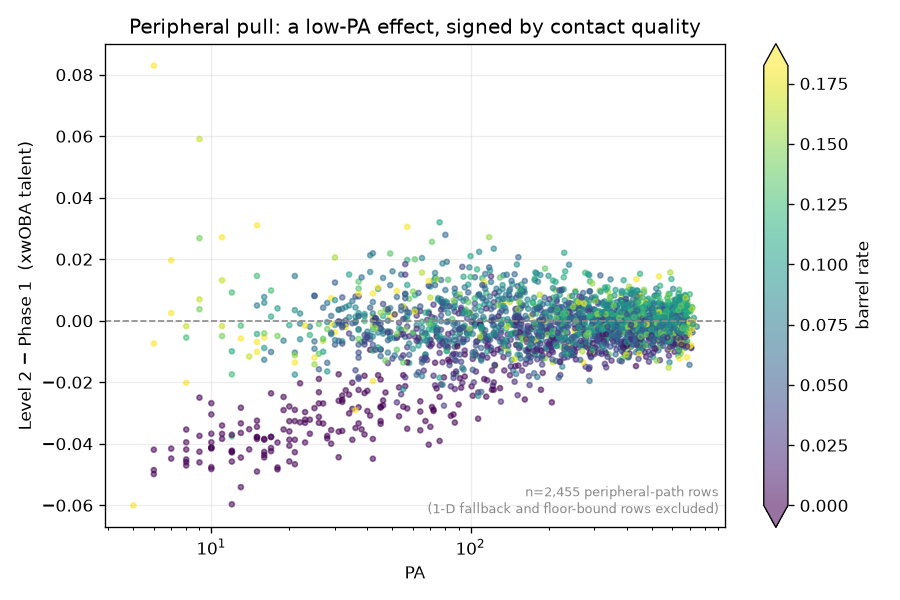
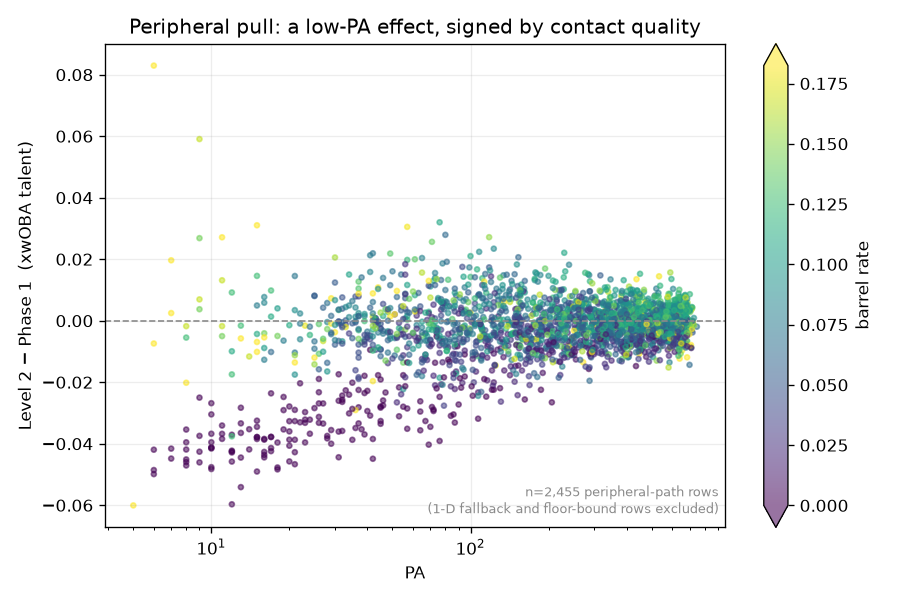
docs: Level-2 talent model results + Phase-2 roadmap supersession
results/talent2/NOTES.md, a RESULTS.md section, and a supersession block on the
old Phase-2 roadmap (both its candidate designs were killed — the contact-prior
variant empirically as a structural no-op, the event-level batter intercepts at
design review).

The write-up leads with the win and then argues against it: G3/G4 pass and the
gain sits exactly where the design predicted by PA band (+0.0718 at 30-60 PA
decaying to -0.0000 at 250+), but the paired-bootstrap CI straddles zero
([-0.0117, +0.0176]) and the held-out confirm season reverses sign (-0.0034).
Documented as an improvement in expectation, not a demonstrated one. Also notes
that G3's two criteria are not independent evidence: for a fixed target set the
calibrated RMSE is exactly sd(target)*sqrt(1-r^2), so beating on r implies
beating on RMSE.

Includes a real miss (Cesar Salazar 2024) alongside the three successes so the
mechanism is not oversold, and pins base's row order so the parquet and scatter
are byte-idempotent across runs.

Claude-Session: https://claude.ai/code/session_016fRtypddqZDobpZtbNjPLy

Changed region(s): [[0.4978, 0.48, 0.7778, 0.6], [0.4044, 0.51, 0.4667, 0.54], [0.56, 0.48, 0.5911, 0.51]]

diff --git a/scripts/run_talent2.py b/scripts/run_talent2.py
@@ -313,7 +313,8 @@ def stage_full(cfg, meas: pl.DataFrame, S: np.ndarray, p1: pl.DataFrame,
         .join(act.select("batter", "season", "actual_woba"),
               on=["batter", "season"], how="inner")
         .with_columns(floor_binds=pl.col("se2_p1") < FLOOR_SD_PER_PA ** 2 / pl.col("n"))
-    )
+        .sort("batter", "season")   # pin join order: see make_pairs — without this the
+    )                               # written parquet and the scatter differ run to run
     assert base.height == P1_N_ROWS, f"base height {base.height} != {P1_N_ROWS}"
 
     sel_seasons = cfg.train_seasons[:-1]          # 2022, 2023 -> model-choice split

diff --git a/results/talent2/NOTES.md b/results/talent2/NOTES.md
@@ -1,0 +1,225 @@
+# Level-2 true talent — shrink toward what the peripherals imply, not the league mean
+
+Date: 2026-07-19 · No BART re-fit. Reproduce: `.venv/bin/python scripts/run_talent2.py --stage full`
+→ `results/talent2/{figures/, talent2_table.parquet, l2a_table.parquet, talent2_metrics.json}`.
+
+Design: `docs/superpowers/specs/2026-07-19-xwobart-phase2-design-response.md` ·
+Plan: `docs/superpowers/plans/2026-07-19-xwobart-phase2-level2-talent.md`. Stage 1 of Phase 2.
+
+**Goal.** Phase 1 (`results/talent/NOTES.md`) shrinks every hitter toward the **season league
+mean**, which is the right answer only when you know nothing else about him. But you do know
+something else: how hard he hits the ball. Exit velocity and barrel rate stabilize far faster
+than xwOBA, and at 30–100 PA they out-predict next season better than raw xwOBA does
+(barrel r 0.244, EV r 0.227, raw xwOBA r 0.179). Level 2 puts them in the **prior**, so a
+rookie barreling the ball regresses toward a barrel-hitter's xwOBA instead of toward .310.
+This closes Phase-1 limitation 1.
+
+## Construction
+
+The three stats are **jointly noisy measurements of correlated latent talents** — not a
+regression of one on the others (see the shared-noise section below for why that distinction
+is the whole ballgame):
+
+- measurement: `z_i = (xwOBA, avg EV, barrel rate)_i ~ N((θ_i, ξ_i), S_i)`
+- talent: `(θ_i, ξ_i) ~ N(μ_season, Σ_talent)`
+- posterior: `θ̂ = μ + Σ(Σ+S_i)⁻¹(z−μ)`, `V = Σ − Σ(Σ+S_i)⁻¹Σ` — closed form, no MCMC.
+
+1. **Per-PA measurement frame** (`build_pa_measurements`). xwOBA value exactly as Phase 1.
+   EV and barrel (`launch_speed_angle == 6`) are recorded **only on tracked BBE**; the ~0.3%
+   of batted balls with no tracking keep their xwOBA value but leave the peripheral
+   denominators alone.
+2. **Per-player measurement covariance `S_i` by bootstrap** (`bootstrap_S`). Resample the
+   player's own PAs with replacement, recompute all three stats per replicate, take the
+   covariance. This is the load-bearing step: it captures the **cross-covariances** exactly
+   (all three stats come from the same balls) and handles the mixed denominators — xwOBA is
+   per-PA, EV and barrel are per-tracked-BBE — with no analytic approximation.
+   `S_i[0,0]` is floored at `(0.25)²/n` (see "the 136 rows" below).
+3. **Hyperparameters by marginal MLE** (`mvn_mle`) on the stable population (PA ≥ 100,
+   n = 1,830): per-season `μ` and one shared `Σ_talent`, with `Σ` parameterized by its
+   Cholesky factor so it is PSD by construction. Inputs standardized per dimension.
+4. **Closed-form posterior for every player-season** (2,636). Rows with fewer than 5 tracked
+   BBE, missing peripherals, or a failed bootstrap fall back to the 1-D xwOBA-only model —
+   i.e. exactly Phase 1's machinery. **93 rows (3.5%) take the fallback; 2,543 use all three
+   dimensions.** Median reliability rises 0.65 (Phase 1) → 0.70.
+
+### Fitted talent correlations (`Σ_talent`, unstandardized)
+
+|  | xwOBA | avg EV | barrel rate |
+|---|---|---|---|
+| **xwOBA** | 1.000 | **+0.776** | **+0.712** |
+| **avg EV** | +0.776 | 1.000 | +0.824 |
+| **barrel rate** | +0.712 | +0.824 | 1.000 |
+
+Talent SDs: xwOBA **0.0312**, EV **2.42 mph**, barrel rate **0.0367**. The xwOBA figure is
+the sanity check that matters — Phase 1's per-season τ ranges 0.0307–0.0323, so the single
+shared Σ lands mid-range and the "one Σ across seasons" simplification costs nothing.
+Per-season μ (xwOBA dim) 0.3034 / 0.3126 / 0.3094 / 0.3166 for 2022–25, within 0.0016 of
+Phase 1's per-season μ everywhere.
+
+## What it does to actual hitters
+
+Low-PA seasons where the contact quality disagrees with the results (`next` = the following
+season's actual wOBA, which neither model saw):
+
+| batter-season | PA | EV | barrel | raw | Phase 1 | **Level 2** | next |
+|---|---|---|---|---|---|---|---|
+| Sal Stewart 2025 (hot line, elite contact) | 57 | 95.4 | .179 | .409 | .334 | **.364** | .361 |
+| Stone Garrett 2022 (average line, good contact) | 76 | 93.9 | .109 | .307 | .305 | **.337** | .420 |
+| Tyler Heineman 2023 (hot line, no contact) | 42 | 77.4 | .000 | .332 | .320 | **.275** | .292 |
+| César Salazar 2024 (**a miss**) | 31 | 82.9 | .000 | .347 | .318 | **.274** | .352 |
+
+The first three are the mechanism working: Stewart's hot 57 PA is *backed* by 95.4 mph and a
+17.9% barrel rate, so Level 2 declines to shrink him all the way and lands on .364 against a
+.361 next season; Heineman's identical-looking hot line came off 77.4 mph contact with zero
+barrels, and Level 2 calls it luck. Salazar is included because it is a **real miss** — same
+signal, wrong answer, next-season .352. The peripherals are information, not a guarantee, and
+n = 31 is n = 31.
+
+`figures/peripheral_pull.png` shows the whole population: the correction fans out as PA
+shrinks and is cleanly signed by barrel rate (high-barrel pulled up, low-barrel pulled down),
+collapsing to zero above ~300 PA where the xwOBA sample already knows.
+
+## Validation — does it predict next season better?
+
+Season-T estimate vs season-(T+1) **actual** wOBA, target year PA ≥ 100. Pearson r
+(calibrated RMSE in parentheses):
+
+| population | n | **Level 2** | Phase-1 talent | raw | Savant |
+|---|---|---|---|---|---|
+| pooled, PA_T ≥ 100 | 1060 | **0.4908** (0.03446) | 0.4886 (0.03451) | 0.4835 (0.03462) | 0.4908 (0.03446) |
+| pooled, PA_T ≥ 30 | 1173 | **0.4698** (0.03522) | 0.4669 (0.03528) | 0.4454 (0.03572) | 0.4521 (0.03558) |
+
+**Gates: G3 (low-PA win) PASS, G4 (high-PA non-inferiority) PASS.** At PA ≥ 30 Level 2 beats
+Phase 1 on both r and calibrated RMSE, and beats Savant by 0.0177. At PA ≥ 100 it gains
+0.0022 over Phase 1 and now **exactly ties Savant** (0.4908 vs 0.4908) where Phase 1 trailed.
+
+**Where the gain lives** — by PA band, the design's prediction made visible:
+
+| PA band | n | Level 2 | Phase 1 | Δ | raw | Savant |
+|---|---|---|---|---|---|---|
+| [30,60) | 50 | **0.3107** | 0.2389 | **+0.0718** | 0.2088 | 0.2111 |
+| [60,100) | 63 | **0.1247** | 0.0882 | +0.0365 | 0.1102 | 0.1283 |
+| [100,250) | 227 | **0.2935** | 0.2769 | +0.0166 | 0.2783 | 0.2931 |
+| [250,inf) | 833 | 0.5122 | 0.5122 | −0.0000 | 0.5164 | 0.5230 |
+
+A monotone gradient that vanishes exactly where it should. Note this table means something
+here that the equivalent Phase-1 table did **not**: Phase 1's per-band r was affine-invariant
+to shrinkage (within a band `θ̂` is ~affine in raw, so r cannot move — see
+`results/talent/NOTES.md`), which is why its per-band gaps were noise. Level 2 adds
+*independent information* inside the band, so its per-band gains are real signal. They are
+also small-n (50, 63) and correspondingly noisy — read the gradient, not the digits.
+
+### Honest accounting: the gain is real in direction, not established in size
+
+Three things cut against reading +0.0029 as a solid win, and all three are in
+`talent2_metrics.json`:
+
+1. **The paired bootstrap CI straddles zero.** 5,000 resamples of the PA ≥ 30 pairs:
+   Δr mean **+0.0029, CI95 [−0.0117, +0.0176]**, better in **64.1%** of resamples. The point
+   estimate favors Level 2; the sample cannot distinguish it from zero.
+2. **The confirmation season reverses sign (G6).** Model choices were scored on
+   *select* = 22→23 and 23→24; *confirm* = 24→25 was held out. Select: **+0.0063** (n=787).
+   Confirm: **−0.0034** (n=386). The pooled +0.0029 is an average of a win and a loss, and
+   nothing was tuned on confirm to fix that.
+3. **The ablations don't agree with each other.** On select, full 3-D (+0.0063) beats
+   barrel-only (+0.0035) beats EV-only (+0.0020), so the protocol ships full 3-D. On confirm,
+   EV-only is the only positive variant (+0.0050) while full 3-D (−0.0034) and barrel-only
+   (−0.0065) are negative. No variant is consistently ahead.
+
+Note also that Δr and Δ(calibrated RMSE) are **not independent evidence**: for a fixed target
+set the OLS-residual RMSE is exactly `sd(target)·√(1−r²)`, so beating on r implies beating on
+calibrated RMSE, always. G3's two criteria are one criterion. (Verified to machine precision;
+`_fast_scores` in the runner documents the identity.)
+
+The fair summary: the mechanism is doing what it was designed to do, in the regime and with
+the sign the design predicted, and it costs nothing at high PA — but a single season of
+holdout contradicts it and the CI includes zero. It ships as an improvement in expectation,
+not as a demonstrated one.
+
+## The shared-noise tripwire (G5) — the one that mattered
+
+**Why this is design risk #1.** The obvious way to build this — regress xwOBA on EV and barrel
+rate, use the fitted value as the prior mean — is broken, and quietly so. All three stats are
+computed from *the same batted balls*, so their sampling errors are correlated: a hitter who
+happened to square up a few extra balls in 40 PA has an inflated xwOBA **and** an inflated EV
+and barrel rate together. A regression cannot tell that shared noise from shared talent, so β
+inflates, τ deflates, and the model manufactures low-PA gains out of nothing. The joint MVN is
+immune by construction *only because* `S_i` carries the off-diagonals that encode exactly that
+correlation.
+
+**The test.** Refit with the off-diagonals of every `S_i` zeroed — i.e. deliberately commit the
+error — and see whether the low-PA gain gets *bigger*. If it does, the gain was the artifact.
+
+| fit | PA ≥ 30 gain vs Phase 1 |
+|---|---|
+| proper `S_i` (shipped) | **+0.0029** |
+| off-diagonals zeroed | **−0.0101** |
+| artifact gap | **−0.0130** (alarm threshold: > +0.005) |
+
+**Clean, and emphatically so.** Zeroing the off-diagonals does not inflate the gain — it
+destroys it, leaving a model *worse than Phase 1*. That is the strongest single result here:
+the shared-noise modeling is load-bearing, and the +0.0029 is not correlated noise being
+fitted. Had this come back positive, the low-PA win would have been withdrawn.
+
+## The 136 rows where the variance floor binds (Phase-1 limitation 3, closed)
+
+Phase 1 measures a sample's noisiness by how much the hitter's per-PA outcomes vary. A hitter
+with **2 PA who made 2 outs** has zero variation, so Phase 1 computes se² = 0, reliability
+1.0, and reports his true talent as **exactly .000** — with total confidence, off two outs.
+Seven rows hit se² exactly zero; 136 fall below the floor. Trevor Rogers (a pitcher, 2 PA,
+2025) is the archetype: Phase 1 .000 → Level 2 .309.
+
+Level 2 floors the xwOBA measurement variance at `(0.25)²/n`, so no tiny sample can claim
+certainty. Median PA among the 136 is 12; median move 0.0102; max move 0.3085.
+
+**This changes the L2a regression gate, deliberately.** G1 asks whether the rebuilt machinery
+reproduces Phase 1. It does — on the 2,500 rows where both models *should* agree, corr =
+**0.99950** (median |diff| 0.00025, max 0.0055), and the frozen validation anchors reproduce
+to 0.4885 vs 0.4886 (PA ≥ 100) and 0.4663 vs 0.4669 (PA ≥ 30). The 136 floor-bound rows are
+excluded from that correlation and reported separately (`l2a.floor_fix` in the metrics,
+including the all-rows corr of 0.7620 that the outliers produce) rather than folded into a
+pass. Bootstrap SEs also match Phase 1's analytic SEs: corr **0.9965**, median ratio **1.002**
+(G2).
+
+## Leakage sensitivity — and a convention we are deviating on
+
+Hyperparameters are fit on **all four seasons**, matching Phase 1's convention. The spec's
+letter would fit them on the training seasons only. Refitting on 2022–24 (n_fit 1,371,
+excluding 2025 measurement rows) moves the PA ≥ 30 result by **−0.0005** (0.4694 vs 0.4698) —
+negligible, so the convention is kept for Phase-1 comparability. Note the exposure is
+structurally small anyway: 2025 talent estimates are never a *predictor* in these races, only
+a target, so 2025 can only leak through the shared Σ and the 2025 μ.
+
+## Interval widths
+
+Median 90% interval width, Phase 1 → Level 2 (`figures/interval_width_vs_pa.png`):
+
+| PA band | [30,60) | [60,100) | [100,250) | [250,450) | [450,inf) |
+|---|---|---|---|---|---|
+| Phase 1 | 0.0869 | 0.0787 | 0.0667 | 0.0536 | 0.0466 |
+| Level 2 | 0.0788 | 0.0720 | 0.0604 | 0.0498 | 0.0437 |
+| change | −9.3% | −8.6% | −9.4% | −7.2% | −6.1% |
+
+The plan expected narrowing concentrated at low PA; what the data shows is **near-uniform
+6–9% narrowing at every band**. That is coherent with the model — peripherals inform θ even
+when xwOBA is well measured — but see limitation 2: it is an unvalidated claim of extra
+precision, and at 250+ PA the model narrows the interval by 7% while moving the point estimate
+by −0.0000. Coverage validation is Stage 4's job, not this stage's.
+
+## Limitations
+
+1. **Single-season only.** Each player-season is estimated in isolation; a hitter's own prior
+   seasons are ignored. Multi-season + age pooling at Level 2 is the flagged next lever and is
+   likely worth more than the peripherals were.
+2. **The interval is still estimation-only, and now narrower without being validated.** No
+   BART *surface* variance is folded in (Phase-1 limitation 2 is untouched). Stage 3 persists
+   per-event value draws and Stage 4 adds that variance to `S_i[0,0]` and validates 50/80/90%
+   coverage by PA band. Until then the widths above are a model claim, not a measured one.
+3. **Gaussian tails on a bounded stat.** xwOBA is bounded below by 0 and barrel rate lives in
+   [0,1]; the MVN puts mass outside both. Harmless in the middle of the distribution, wrong in
+   the extreme low-PA tail.
+4. **The gain is not statistically established** — CI straddles zero, confirm season reverses.
+   See "Honest accounting" above. Do not quote +0.0029 without the CI.
+5. **`MIN_BBE = 5` and the 0.25 SD floor are judgement calls**, not fitted. 93 rows take the
+   1-D fallback under the current threshold; neither constant was tuned, and neither was
+   swept.

diff --git a/results/RESULTS.md b/results/RESULTS.md
@@ -125,6 +125,54 @@ Carried to Phase 2: the prior is the flat league mean (→ BART contact-quality 
 the interval is estimation-only (→ combine with BART's surface term). See
 `results/talent/NOTES.md`.
 
+## Level-2 talent model (joint MVN over xwOBA + peripherals)
+
+Phase 2 / Stage 1. Phase 1 shrinks every hitter toward the **season league mean**; Level 2
+shrinks him toward **what his contact quality implies**. The three stats are modeled as jointly
+noisy measurements of correlated latent talents — `z_i = (xwOBA, avg EV, barrel rate)_i ~
+N((θ_i,ξ_i), S_i)`, `(θ_i,ξ_i) ~ N(μ_season, Σ_talent)` — so the posterior
+`θ̂ = μ + Σ(Σ+S_i)⁻¹(z−μ)` leans on the fast-stabilizing peripherals exactly when the xwOBA
+sample is small. `S_i` is bootstrapped from the player's own PAs and **keeps its off-diagonals**
+(all three stats come from the same balls; ignoring that shared noise is what would manufacture
+fake low-PA gains). Closed-form throughout — no MCMC, no BART re-fit, ~7 s
+(`src/talent2.py`, `scripts/run_talent2.py --stage full`, `results/talent2/`). Fitted talent
+correlations: xwOBA/EV **+0.776**, xwOBA/barrel **+0.712**; xwOBA talent SD 0.0312 (Phase-1 τ
+0.0307–0.0323). 2,543 of 2,636 player-seasons use all three dims; 93 fall back to 1-D.
+
+**Validation (predict next-season actual wOBA, r; target-year PA ≥ 100):**
+
+| population | n | **Level 2** | Phase-1 talent | raw | Savant |
+|---|---|---|---|---|---|
+| pooled, PA_T ≥ 100 | 1060 | **0.4908** | 0.4886 | 0.4835 | 0.4908 |
+| pooled, PA_T ≥ 30 | 1173 | **0.4698** | 0.4669 | 0.4454 | 0.4521 |
+
+**Verdict: G3 (low-PA win) and G4 (high-PA non-inferiority) both PASS** — Level 2 beats Phase 1
+on r and calibrated RMSE at PA ≥ 30, beats Savant by 0.0177 there, and at PA ≥ 100 now *ties*
+Savant (0.4908) where Phase 1 trailed. The gain sits exactly where the design predicted, by PA
+band: **+0.0718** (30–60 PA), +0.0365 (60–100), +0.0166 (100–250), −0.0000 (250+). Unlike Phase
+1's per-band table, these gaps are real signal rather than affine-invariance noise — Level 2
+adds independent information inside the band.
+
+**But it is not statistically established, and the notes say so.** The paired bootstrap
+(5,000 reps, PA ≥ 30) gives Δr **+0.0029, CI95 [−0.0117, +0.0176]**, better in 64% of resamples;
+and the held-out confirmation season **reverses sign** (select 22→23 + 23→24: +0.0063; confirm
+24→25: −0.0034). Nothing was tuned on confirm to rescue it. Ships as an improvement in
+expectation, not a demonstrated one.
+
+**Gate outcomes.** G1 (reproduces Phase 1) PASS — corr **0.99950** on the 2,500 rows where both
+models should agree, anchors reproduced to 0.4885/0.4886 and 0.4663/0.4669. G2 (bootstrap vs
+analytic SE) PASS — corr 0.9965, median ratio 1.002. G3, G4 PASS. **G5 (shared-noise tripwire)
+CLEAN and decisive**: refitting with `S_i`'s off-diagonals zeroed does not inflate the gain, it
+destroys it (+0.0029 → **−0.0101**, worse than Phase 1; artifact gap −0.0130 against a +0.005
+alarm threshold) — the correlated-noise modeling is load-bearing and the win is not an artifact.
+G6 (honest split) followed; the disagreement is reported above, not dropped.
+
+Also closes **Phase-1 limitation 3**: a hitter with 2 PA and 2 outs has zero sample variance, so
+Phase 1 reported his true talent as exactly .000 with full confidence (Trevor Rogers, a pitcher,
+2025). A `(0.25)²/n` variance floor fixes 136 such rows; they are excluded from G1's correlation
+and reported separately under `l2a.floor_fix` rather than folded into a pass. See
+`results/talent2/NOTES.md`.
+
 ## Stage C decision (spec §15.3)
 
 From Stage B (14.2 min on 50k rows), full-train (~363k rows) extrapolates to ~100 min

diff --git a/docs/superpowers/plans/2026-07-18-xwobart-phase2-bart-prior.md b/docs/superpowers/plans/2026-07-18-xwobart-phase2-bart-prior.md
@@ -1,5 +1,42 @@
 # xwobart Phase 2 — BART-informed contact-quality prior (ROADMAP)
 
+> ## ⚠️ SUPERSEDED 2026-07-19 — read this block before using anything below
+>
+> This roadmap's two candidate designs were both killed, one empirically and one at design
+> review. The text below is kept **for history only**; it is not the plan of record.
+>
+> - **"Shrink toward the model's own xwOBA" — killed empirically.** A structural no-op: the
+>   BART surface is a function of the same batted balls the raw number is built from, so the
+>   residual between-player variance it leaves is τ_resid² ≈ 1e-4. There is nothing to shrink
+>   toward that the raw number does not already contain.
+> - **Event-level batter intercepts — rejected at design review.** That channel has
+>   year-to-year r ≈ 0.12. Modeling it is modeling noise.
+> - **What replaced them.** At 30–100 PA, peripherals out-predict raw xwOBA next season
+>   (barrel r 0.244, EV r 0.227 vs raw xwOBA r 0.179), so they belong in the **prior**,
+>   entering at the **player-season** level rather than the event level.
+>
+> **Plan of record:** `docs/superpowers/specs/2026-07-19-xwobart-phase2-design-response.md`
+> (two-level modular design; joint MVN at Level 2, no event-level batter effects).
+>
+> **Stage 1 — SHIPPED 2026-07-19.** Joint-MVN talent model over (xwOBA, avg EV, barrel rate):
+> `docs/superpowers/plans/2026-07-19-xwobart-phase2-level2-talent.md` → `src/talent2.py`,
+> `scripts/run_talent2.py`, `results/talent2/`. All hard gates pass (PA ≥ 30 r 0.4698 vs
+> Phase-1 0.4669; PA ≥ 100 0.4908, tying Savant; shared-noise tripwire clean at −0.0130), with
+> the gain unestablished — bootstrap CI straddles zero and the confirm season reverses sign.
+> Full accounting in `results/talent2/NOTES.md`.
+>
+> **Stages 2–4 — not yet planned.** (2) cache rebuild adding `hc_x`/`hc_y`/`stand` with
+> pull-mirrored spray angle and sign QC; (3) one 5-feature BART surface refit, ELPD against the
+> −80107 anchor; (4) fold the surface-draw variance into `S_i[0,0]`, spray-conditioned vs
+> spray-marginalized rollup A/B, and 50/80/90% interval-coverage validation by PA band.
+>
+> **The per-event persistence prerequisite below MOVES to Stage 3** and is upgraded: it must
+> persist per-event value **draws** (~100–200 thinned), not just means, so Stage 4 can fold the
+> surface variance in.
+>
+> Multi-season + age pooling at Level 2 is the flagged follow-on after Stage 4 — and per
+> Stage 1's notes, likely worth more than the peripherals were.
+
 > **Status: roadmap, NOT an executable plan.** This is the design and the decisions to
 > settle, not bite-sized tasks. Phase 2 requires a modeling decision and one BART re-fit, so
 > it must be run as its own **brainstorm → spec → plan → execute** cycle (like v0). Extracted